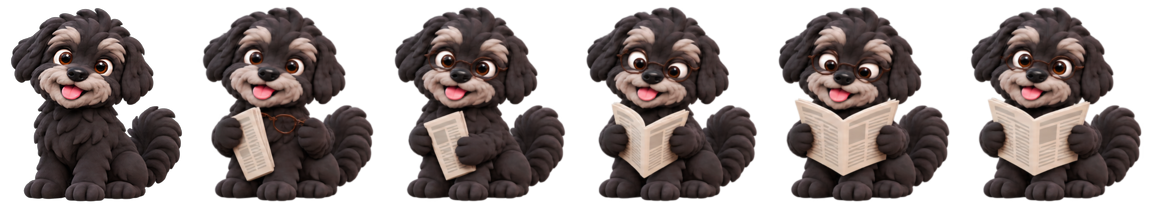
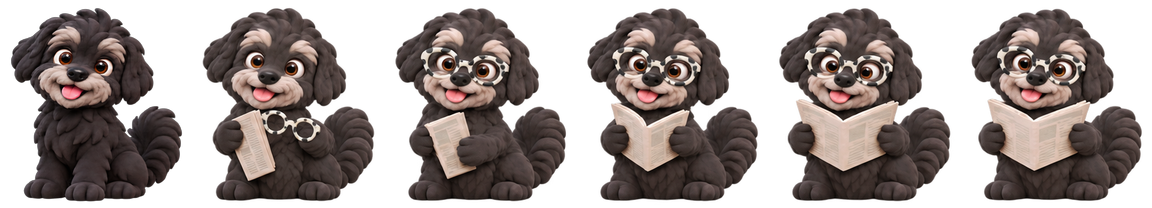
feat: Lucia reads the newspaper in cow-print glasses
Replace the three newspaper strips with the four-paw cow-glasses set. Geometry,
timings, anchor and idle handoffs are unchanged; manifest hashes updated.

Claude-Session: https://claude.ai/code/session_01Df2drrsErTivR2U6P19djg

Changed region(s): [[0.1562, 0.0288, 1.0, 0.9808], [0.6562, 0.0288, 0.8438, 0.6346]]

diff --git a/CHANGELOG.md b/CHANGELOG.md
@@ -5,6 +5,7 @@ All notable changes to Claria are documented here.
 ## [Unreleased]
 
 - Long chats scroll inside the conversation, keeping the composer and Lucia's rail on screen
+- Lucia reads the newspaper in cow-print glasses, holding it with both forepaws
 
 ## [0.36.0] — 2026-11-03
 
